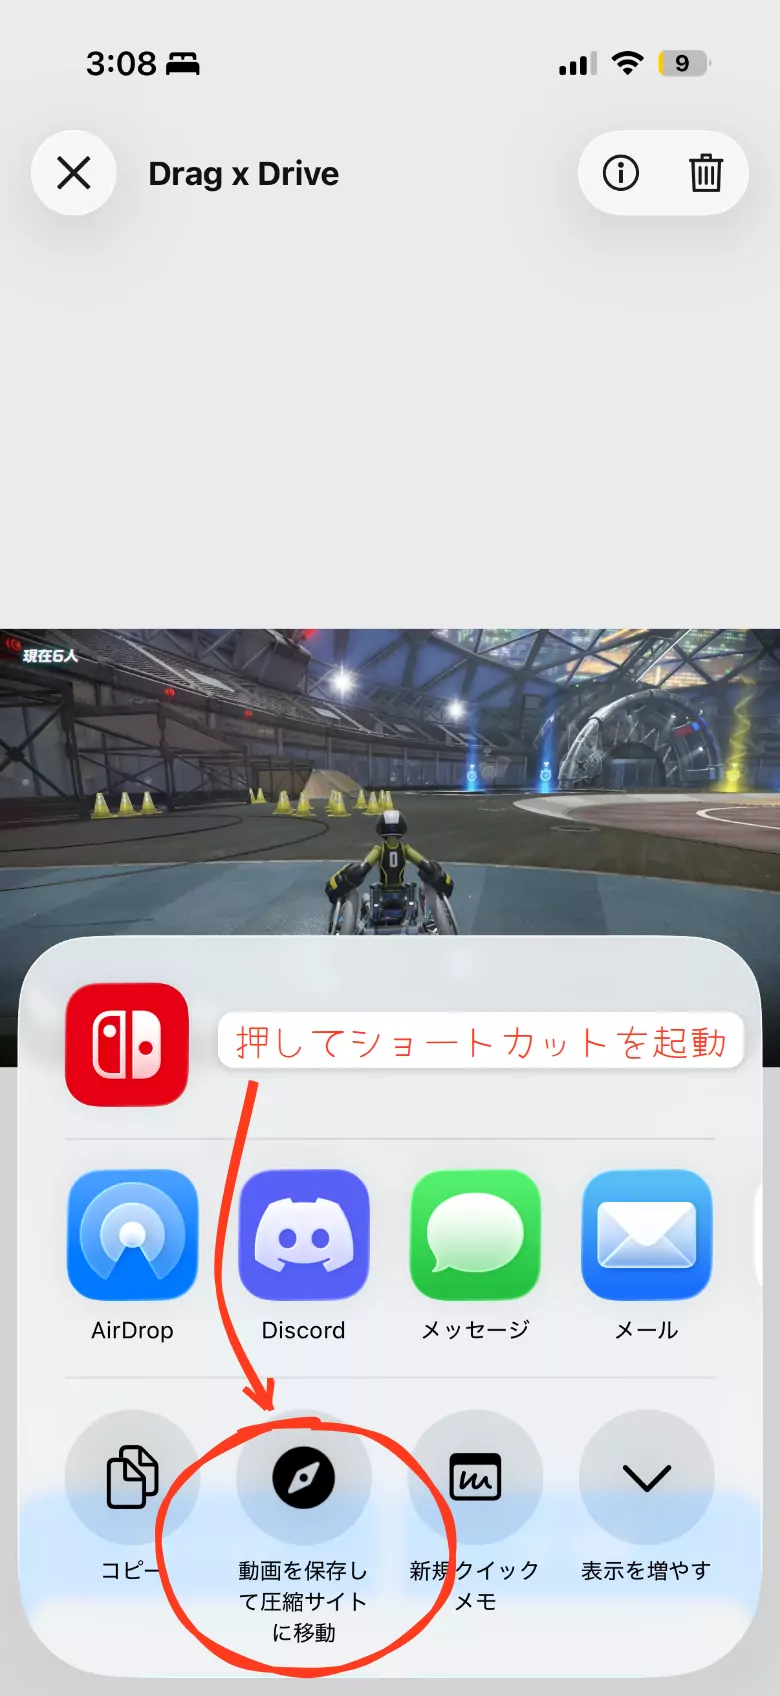
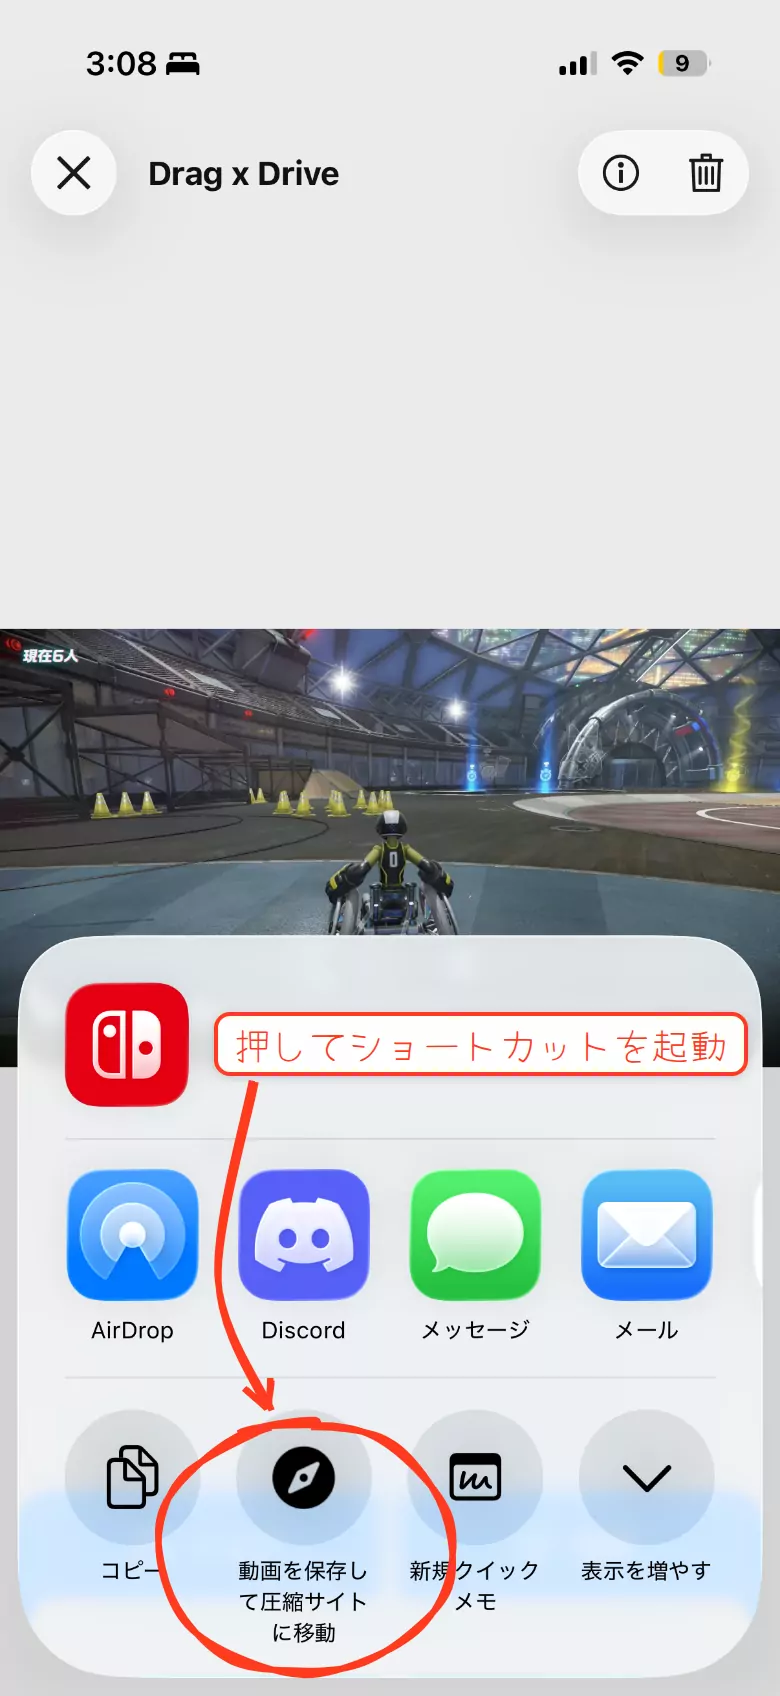
docs: ショートカットの流れの2枚目の説明の枠にも、赤い枠線を付ける
Claude-Session: https://claude.ai/code/session_01Kjx2uZRnB9w1XNEyRL87P8

Changed region(s): [[0.2769, 0.5938, 0.9846, 0.6562]]

diff --git a/public/sw.js b/public/sw.js
@@ -8,7 +8,7 @@
  */
 'use strict';
 
-var CACHE = 'video-compressor-under20mb-v65';
+var CACHE = 'video-compressor-under20mb-v66';
 var NETWORK_TIMEOUT_MS = 3000;   // ネット優先のとき、ネットの応答をこれだけ待ってからキャッシュを使う
 
 // Cloudflare Pages のプレビュー（<ブランチ名>.<プロジェクト名>.pages.dev）と手元の確認環境だけネット優先にする
